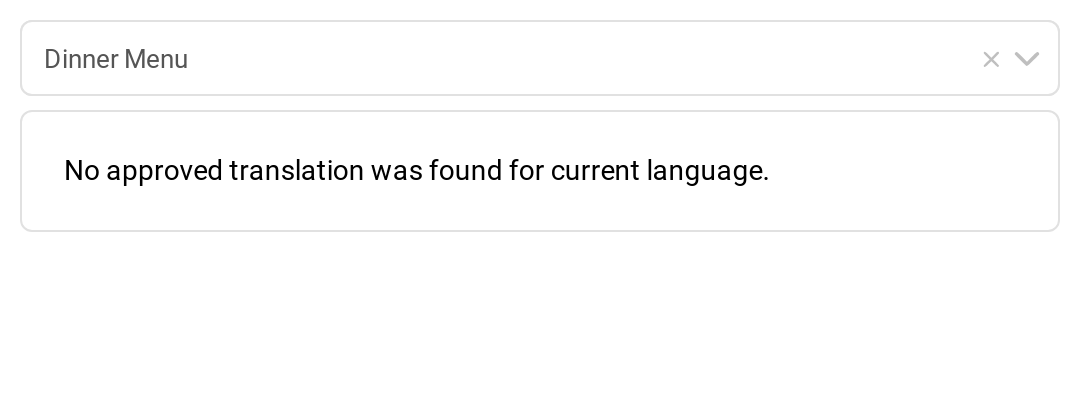
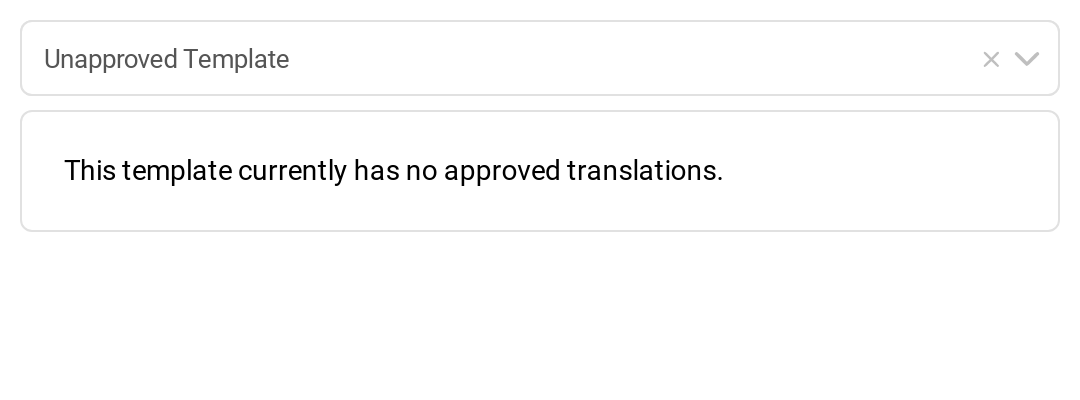
Use base_template instead of array

Changed region(s): [[0.0611, 0.39, 0.7028, 0.48], [0.0306, 0.12, 0.275, 0.18]]

diff --git a/src/templates/TemplateEditor.ts b/src/templates/TemplateEditor.ts
@@ -24,8 +24,8 @@ interface Template {
   created_on: string;
   modified_on: string;
   name: string;
-  translations: Translation[];
   uuid: string;
+  base_translation: Translation;
 }
 
 export class TemplateEditor extends FormElement {
@@ -154,9 +154,6 @@ export class TemplateEditor extends FormElement {
   @property({ type: Object })
   selectedTemplate: Template;
 
-  @property({ type: String })
-  lang = 'eng-US';
-
   // initial variables, not reflected back
   @property({ type: Array })
   variables: string[];
@@ -192,22 +189,12 @@ export class TemplateEditor extends FormElement {
   private handleTemplateChanged(event: CustomEvent) {
     const prev = this.selectedTemplate;
     this.selectedTemplate = (event.target as any).values[0] as Template;
-
     if (prev) {
       this.currentVariables = [];
     }
 
-    const [lang, loc] = this.lang.split('-');
     if (this.selectedTemplate) {
-      this.translation = this.selectedTemplate.translations.find(
-        (translation) => {
-          return (
-            translation.locale === this.lang ||
-            (!loc && translation.locale.split('-')[0] === lang)
-          );
-        }
-      );
-
+      this.translation = this.selectedTemplate.base_translation;
       if (this.translation) {
         this.variables = new Array(
           (this.translation.variables || []).length
@@ -405,7 +392,7 @@ export class TemplateEditor extends FormElement {
       content = this.renderComponents(this.translation.components);
     } else if (this.selectedTemplate) {
       content = html`<div class="error-message">
-        No approved translation was found for current language.
+        This template currently has no approved translations.
       </div>`;
     }
 

diff --git a/test/temba-template-editor.test.ts b/test/temba-template-editor.test.ts
@@ -27,31 +27,11 @@ describe('TemplateEditor', () => {
     await assertScreenshot('templates/default', clip);
   });
 
-  it('updates template content when language changes', async () => {
-    const templateEditor = await createTemplateEditor(html`
-      <temba-template-editor
-        url="/static/api/templates.json"
-        template="2b1cdee4-71b4-4c9a-805c-9bce6a2e7277"
-        lang="eng"
-      >
-      </temba-template-editor>
-    `);
-
-    templateEditor.lang = 'fra';
-
-    const clip = getClip(templateEditor);
-    clip.height = 500;
-    clip.bottom = clip.top + clip.height;
-
-    await assertScreenshot('templates/french', clip);
-  });
-
   it('renders an error message no language is found', async () => {
     const templateEditor = await createTemplateEditor(html`
       <temba-template-editor
         url="/static/api/templates.json"
-        template="2b1cdee4-71b4-4c9a-805c-9bce6a2e7277"
-        lang="spa"
+        template="3b1cdee4-71b4-4c9a-805c-9bce6a2e7277"
       >
       </temba-template-editor>
     `);
@@ -68,7 +48,7 @@ describe('TemplateEditor', () => {
       ) as HTMLDivElement
     ).innerText;
     expect(errorMessage).to.equal(
-      'No approved translation was found for current language.'
+      'This template currently has no approved translations.'
     );
   });
 });
